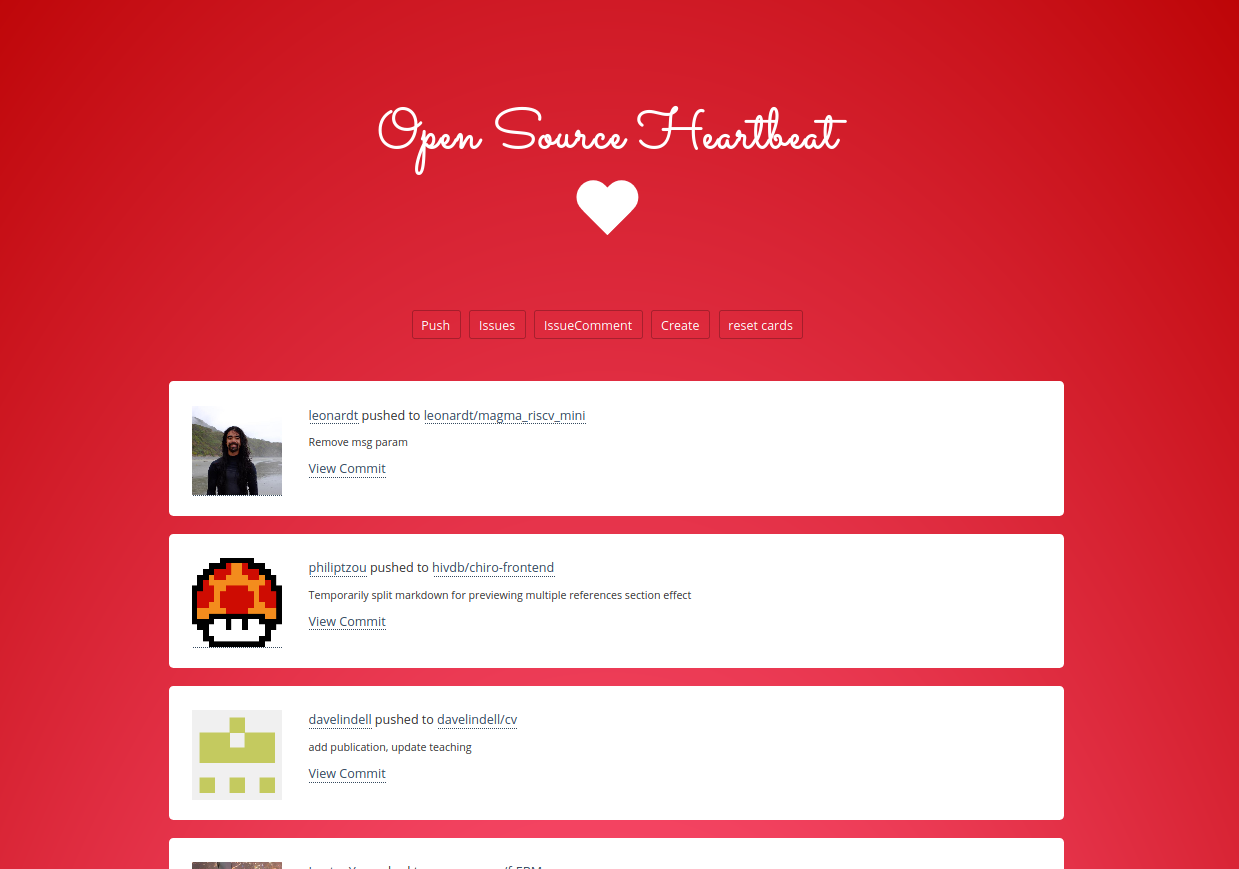
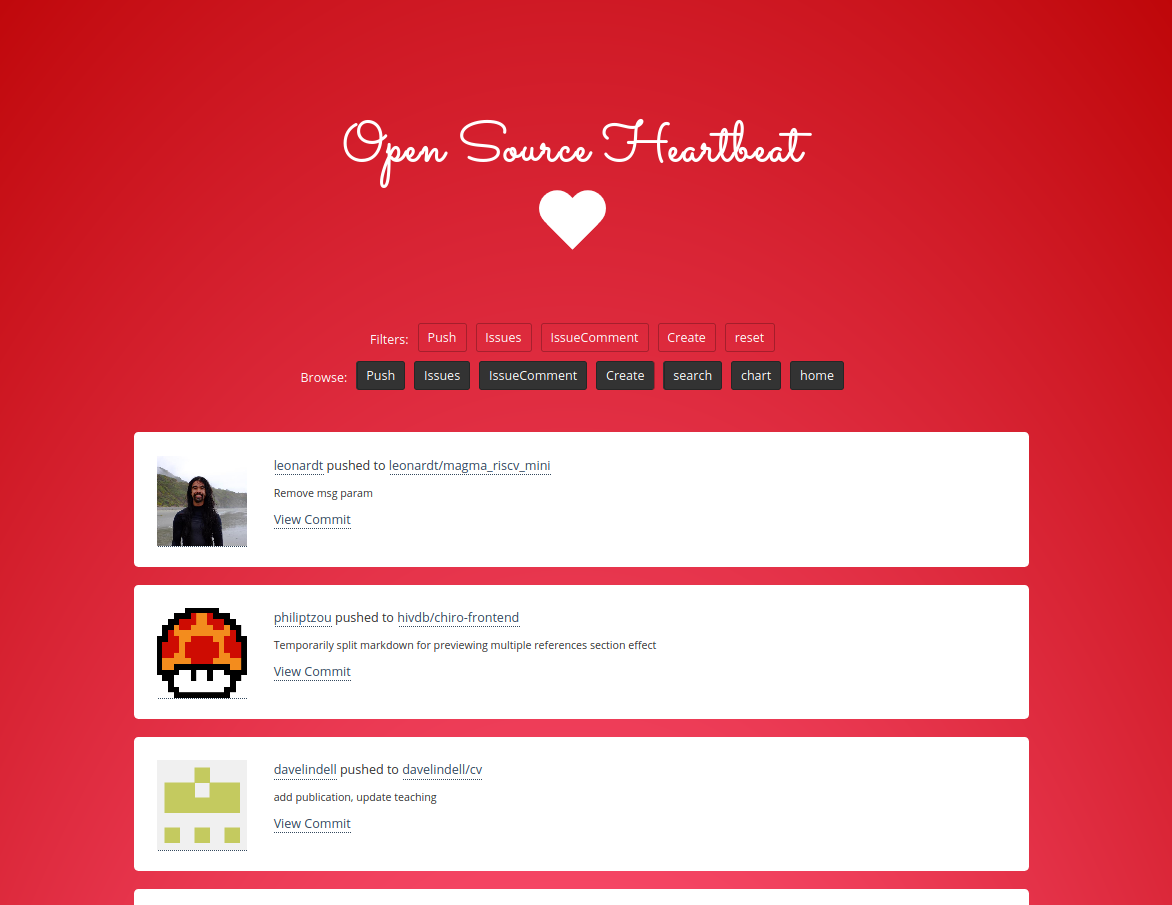
adding finish of interface - ready for first test.

Changed region(s): [[0.0922, 0.3418, 0.8908, 1.0], [0.2765, 0.1243, 0.7065, 0.2796]]

diff --git a/docs/_layouts/chart.html b/docs/_layouts/chart.html
@@ -1,0 +1,56 @@
+---
+layout: default
+---
+{% if events %}{% else %}{% assign events = site.events %}{% endif %}
+
+{% assign issue_comment_counter = 0 %}
+{% assign issues_counter = 0 %}
+{% assign pullrequest_counter = 0 %}
+{% assign push_counter = 0 %}
+{% assign public_counter = 0 %}
+{% assign create_counter = 0 %}
+{% assign release_counter = 0 %}
+{% assign pullrequestcomment_counter = 0 %}
+
+{% for event in events %}
+  {% if event.event_type == "IssueCommentEvent" %}{% assign issue_comment_counter = issue_comment_counter | plus: 1 %}{% endif %}
+  {% if event.event_type == "IssuesEvent" %}{% assign issues_counter = issues_counter | plus: 1 %}{% endif %}
+  {% if event.event_type == "PullRequestEvent" %}{% assign pullrequest_counter = pullrequest_counter | plus: 1 %}{% endif %}
+  {% if event.event_type == "PushEvent" %}{% assign push_counter = push_counter | plus: 1 %}{% endif %}
+  {% if event.event_type == "PublicEvent" %}{% assign public_counter = public_counter | plus: 1 %}{% endif %}
+  {% if event.event_type == "CreateEvent" %}{% assign create_counter = create_counter | plus: 1 %}{% endif %}
+  {% if event.event_type == "ReleaseEvent" %}{% assign release_counter = release_counter | plus: 1 %}{% endif %}
+  {% if event.event_type == "PullRequestReviewCommentEvent" %}{% assign pullrequestcomment_counter = pullrequestcomment_counter | plus: 1 %}{% endif %}
+{% endfor %}
+
+<script src="https://cdn.jsdelivr.net/npm/chart.js@2.8.0"></script>
+<nav>
+{% include browse.html %}
+</nav>
+<main class="grid flex-grid" style="background-color:white; border-radius:30px; padding:30px">
+<canvas id="bar-chart" width="800" height="450"></canvas>
+</main>
+
+<script>
+{% assign types =  site.events | map: 'event_type' | join: ','  | split: ',' | uniq %}
+new Chart(document.getElementById("bar-chart"), {
+    type: 'bar',
+    data: {
+      labels: ["PushEvent","IssuesEvent","IssueCommentEvent","CreateEvent","PullRequestEvent", "PublicEvent", "ReleaseEvent", "PullRequestReviewCommentEvent"],
+      datasets: [
+        {
+          label: "Contributions",
+          backgroundColor: ["#3e95cd", "#8e5ea2","#3cba9f","#e8c3b9","#c45850","#c33", "chocolate", "deepskyblue"],
+          data: [{{ push_counter }},{{ issues_counter }},{{ issue_comment_counter }},{{ create_counter }},{{ pullrequest_counter}},{{ public_counter}},{{ release_counter}}, {{ pullrequestcomment_counter}}]
+        }
+      ]
+    },
+    options: {
+      legend: { display: true },
+      title: {
+        display: true,
+        text: 'Contributions by Type'
+      }
+    }
+});
+</script>

diff --git a/docs/_layouts/home.html b/docs/_layouts/home.html
@@ -3,15 +3,16 @@ layout: default
 ---
 <nav>
 {% assign types =  site.events | map: 'event_type' | join: ','  | split: ',' | uniq %}
-  <ul>{% for type in types %}
+  <ul>
+    <li style="padding-top:8px">Filters:</li>{% for type in types %}
     <li><a class="button {{ type | replace: 'Event', '' }} filter-{{ type | replace: 'Event', '' }}" href="#">{{ type | replace: 'Event', '' }}</a></li>{% endfor %}
-    <li><a class="button reset filter-reset" href="#">reset cards</a></li>
-    <li><a class="button" href="/search" style="background-color:#333">search</a></li>
+    <li><a class="button reset filter-reset" href="#">reset</a></li>
   </ul>
+  {% include browse.html %}
 </nav>
 {% assign events = site.events | sort: 'date' | reverse %}
 <main class="grid flex-grid">{% for event in events limit:100 %}
-     <div class="card card-{{ event.event_type | replace: 'Event', '' }} {{ event.event_type | replace: 'Event', '' }}">
+     <div onclick="window.open('{{ event.html_url }}', '_blank');" class="card card-{{ event.event_type | replace: 'Event', '' }} {{ event.event_type | replace: 'Event', '' }}">
           <a style="position:absolute" href="https://github.com/{{ event.user }}" target="_blank"><img src="{{ event.avatar }}" width="100px"></a>
           <span style="padding-left:130px">{{ event.content | markdownify }}</span>
      </div>{% endfor %}

diff --git a/docs/_layouts/page.html b/docs/_layouts/page.html
@@ -1,0 +1,14 @@
+---
+layout: default
+---
+<nav>
+{% include browse.html %}
+<small><a href="{{ site.baseurl }}/archive/{{ page.event_type | downcase }}/">View {{ page.event_type }} Archive</a></small>
+</nav>
+{% assign events = site.events | where: "event_type", page.event_type | sort: 'date' | reverse %}
+<main class="grid flex-grid" style="max-width:100%">{% for event in events limit:500 %}
+     <div onclick="window.open('{{ event.html_url }}', '_blank');" style="width:calc(18%);" class="card card-{{ event.event_type | replace: 'Event', '' }} {{ event.event_type | replace: 'Event', '' }}">
+          <a style="position:absolute" href="https://github.com/{{ event.user }}" target="_blank"><img src="{{ event.avatar }}" width="100px"></a>
+          <span style="padding-left:130px">{{ event.content | markdownify }}</span>
+     </div>{% endfor %}
+</main>

diff --git a/docs/_includes/browse.html b/docs/_includes/browse.html
@@ -1,0 +1,8 @@
+{% assign types =  site.events | map: 'event_type' | join: ','  | split: ',' | uniq %}
+  <ul>
+    <li style="padding-top:8px">Browse:</li>{% for type in types %}
+    <li><a style="background-color:#333" class="button {{ type | replace: 'Event', '' }}" href="{{ site.baseurl }}/{{ type | downcase }}/">{{ type | replace: 'Event', '' }}</a></li>{% endfor %}
+    <li><a class="button" href="{{ site.baseurl }}/search" style="background-color:#333">search</a></li>
+    <li><a class="button" href="{{ site.baseurl }}/chart" style="background-color:#333">chart</a></li>
+    <li><a class="button" href="{{ site.baseurl }}/" style="background-color:#333">home</a></li>
+  </ul>

diff --git a/docs/_includes/scrolltop.html b/docs/_includes/scrolltop.html
@@ -1,0 +1,32 @@
+<style>
+#uppy {
+  position: fixed;
+  bottom: 20px;
+  right: 30px;
+  z-index: 99;
+  border: none;
+  outline: none;
+  background-color: darkturquoise;
+  color: white;
+  cursor: pointer;
+  margin:15px;
+  border-radius: 10px;
+}
+
+#returnTop:hover {
+  background-color: #555;
+}
+</style>
+
+<button id="uppy" title="Return to Top" class="btn btn-lg"> <i class="fa fa-chevron-up"></i></button>
+
+<script>
+(function() {
+
+var scrollTop = function() {
+    window.scrollTo(0, 0);
+};
+document.getElementById('uppy').onclick = scrollTop;
+})();
+</script>
+

diff --git a/docs/_layouts/default.html b/docs/_layouts/default.html
@@ -7,7 +7,7 @@
     {% include page-header.html %}
     <br><br>
 <header>
-  <h1>Open Source Heartbeat{% if site.subtitle %}{{ site.subtitle }}{% endif %}</h1>
+  <h1>{% if page.title %}{{ page.title }}{% else %}Open Source Heartbeat{% endif %}{% if site.subtitle %}{{ site.subtitle }}{% endif %}</h1>
    {% include heart.html %}
 </header>
    {{ content }}

diff --git a/docs/pages/search.html b/docs/pages/search.html
@@ -5,6 +5,9 @@ permalink: /search
 not_editable: true
 ---
 
+<nav>
+{% include browse.html %}
+</nav>
 <main class="grid flex-grid">
 
 {% include search.html %}

diff --git a/README.md b/README.md
@@ -11,7 +11,28 @@ This means that you can use the action in your workflows too,
 and choose how often / when to run it, and how to update your GitHub pages.
 Continue reading to learn more.
 
+## Interface
+
+The main page shows a sortable view of the top 100 new contributions. You can
+filter down to a contribution type, or click on browse to see a subset of that type.
+
 ![img/open-source-heartbeat.png](img/open-source-heartbeat.png)
+
+
+Here is the browse view.
+
+![img/browse.png](img/browse.png)
+
+
+And here is looking at an archive for a contribution type. Archives are linked from
+the browse page.
+
+![img/archive.png](img/archive.png)
+
+And finally, a chart shows a summary of contributions.
+
+![img/chart.png](img/chart.png)
+
 
 ## Getting Started
 
@@ -147,4 +168,7 @@ you should be able to customize or otherwise update the template
 to your liking. The folder won't be edited if it already exists
 beyond the _events folder.
 
-Do you have an example? Please contribute by opening an issue or a pull request!
+## Future Wants
+
+It would be nice to have the ability to see charts by year (e.g., to determine
+contribution changes over the years).

diff --git a/docs/_layouts/archive.md b/docs/_layouts/archive.md
@@ -1,0 +1,22 @@
+---
+layout: default
+---
+
+{% include scrolltop.html %}
+<nav>
+{% include browse.html %}
+</nav>
+{% assign events = site.events | where: "event_type", page.event_type %}
+
+{% assign myDate = "" %}
+<main class="grid flex-grid">{% for post in events %}
+   {% assign currentDate = post.date | date: "%Y" %}
+   {% if currentDate != myDate %}
+   {% unless forloop.first %}</ul>{% endunless %}
+ <h1 style="margin-top:20px; margin-bottom:10px">{{ currentDate }}</h1>
+ <ul>
+   {% assign myDate = currentDate %}
+   {% endif %}
+   <li><a style="color:white;" target="_blank" href="{{ post.html_url }}"><span>{{ post.date | date: "%B %-d, %Y" }}</span> - {{ post.event_type }} by {{ post.user }} to {{ post.repo }}</a></li>
+   {% if forloop.last %}</ul>{% endif %}
+{% endfor %}</main>

diff --git a/docs/pages/archive/pullrequestreviewcomment.md b/docs/pages/archive/pullrequestreviewcomment.md
@@ -1,0 +1,7 @@
+---
+layout: archive
+title: Pull Request Review Comment Event Archive
+event_type: PullRequestReviewCommentEvent
+permalink: archive/pullrequestreviewcommentevent/
+excluded_in_search: true
+---

diff --git a/docs/pages/browse/pullrequestreviewcomment.md b/docs/pages/browse/pullrequestreviewcomment.md
@@ -1,0 +1,7 @@
+---
+layout: page
+title: Pull Request Review Comment Event
+event_type: PullRequestReviewCommentEvent
+permalink: pullrequestreviewcommentevent/
+excluded_in_search: true
+---

diff --git a/docs/pages/archive/issuecomment.md b/docs/pages/archive/issuecomment.md
@@ -1,0 +1,7 @@
+---
+layout: archive
+title: Issue Comment Events Archive
+event_type: IssueCommentEvent
+permalink: archive/issuecommentevent/
+excluded_in_search: true
+---
